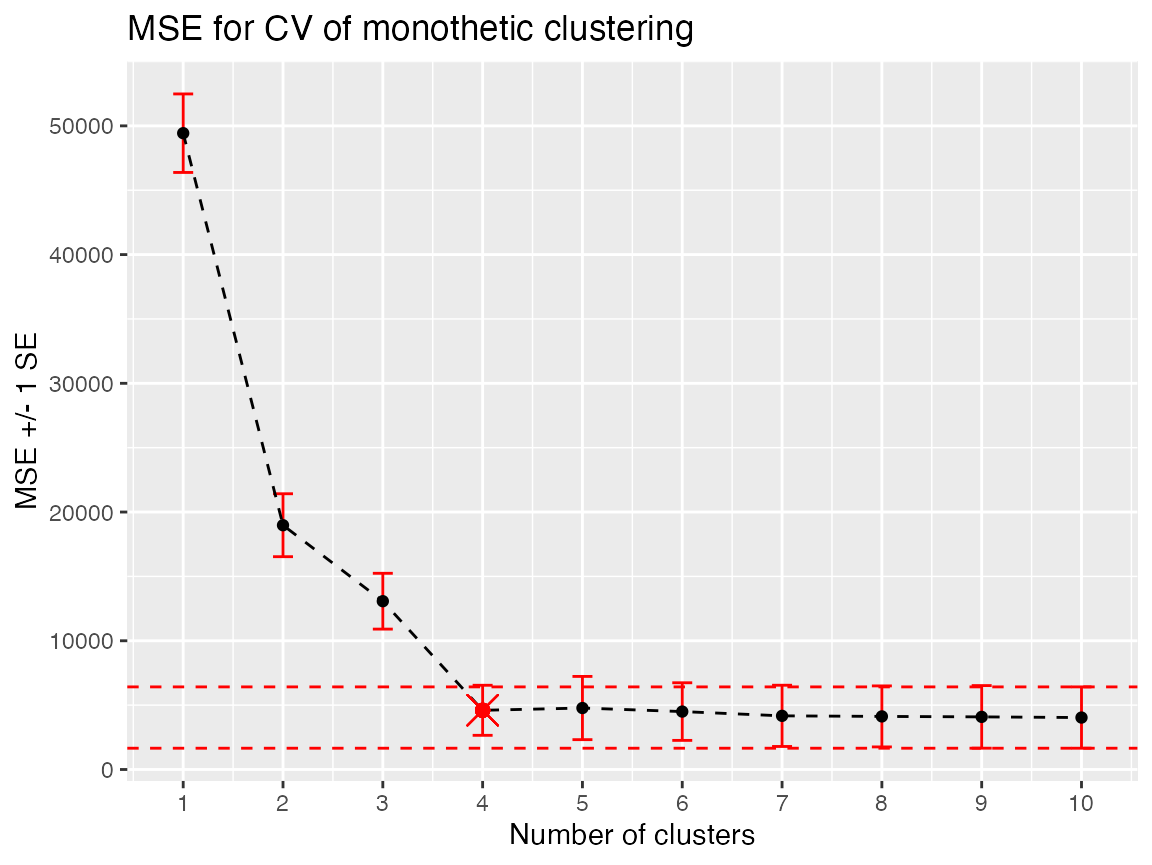
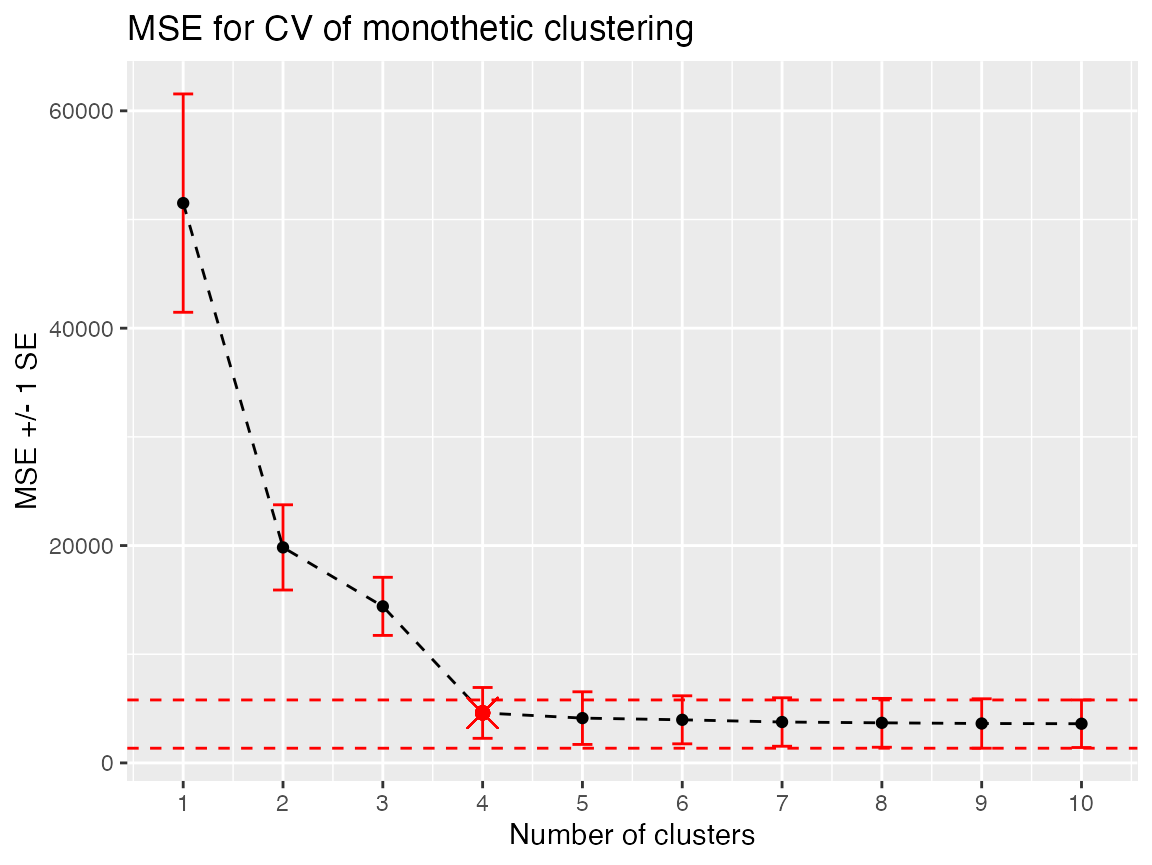
Built site for monoClust: 1.0.0@656e454

diff --git a/articles/monoclust.html b/articles/monoclust.html
@@ -172,16 +172,16 @@ Binary partitioning tree with three splits, four clusters for <em>ruspini</em> d
 <span class="co">#&gt; # A tibble: 10 x 3</span>
 <span class="co">#&gt;    ncluster    MSE `Std. Dev.`</span>
 <span class="co">#&gt;       &lt;dbl&gt;  &lt;dbl&gt;       &lt;dbl&gt;</span>
-<span class="co">#&gt;  1        1 49430.       3050.</span>
-<span class="co">#&gt;  2        2 18976.       2444.</span>
-<span class="co">#&gt;  3        3 13074.       2168.</span>
-<span class="co">#&gt;  4        4  4599.       1944.</span>
-<span class="co">#&gt;  5        5  4775.       2456.</span>
-<span class="co">#&gt;  6        6  4499.       2238.</span>
-<span class="co">#&gt;  7        7  4167.       2379.</span>
-<span class="co">#&gt;  8        8  4124.       2370.</span>
-<span class="co">#&gt;  9        9  4087.       2431.</span>
-<span class="co">#&gt; 10       10  4035.       2382.</span></code></pre></div>
+<span class="co">#&gt;  1        1 51509.      10045.</span>
+<span class="co">#&gt;  2        2 19830.       3921.</span>
+<span class="co">#&gt;  3        3 14405.       2673.</span>
+<span class="co">#&gt;  4        4  4602.       2339.</span>
+<span class="co">#&gt;  5        5  4122.       2422.</span>
+<span class="co">#&gt;  6        6  3966.       2210.</span>
+<span class="co">#&gt;  7        7  3763.       2229.</span>
+<span class="co">#&gt;  8        8  3689.       2247.</span>
+<span class="co">#&gt;  9        9  3626.       2274.</span>
+<span class="co">#&gt; 10       10  3606.       2188.</span></code></pre></div>
 <p>A plot with error bars for one standard error, similar to Figure @ref(fig:cvv), can be made from the output table using standard plotting functions to assist in assessing these results.</p>
 <div class="sourceCode" id="cb4"><pre class="downlit sourceCode r">
 <code class="sourceCode R"><span class="kw"><a href="https://rdrr.io/r/base/library.html">library</a></span><span class="op">(</span><span class="va"><a href="https://dplyr.tidyverse.org">dplyr</a></span><span class="op">)</span>
